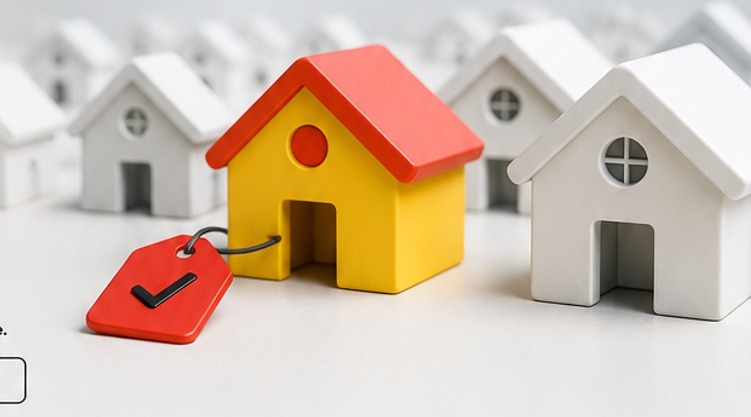
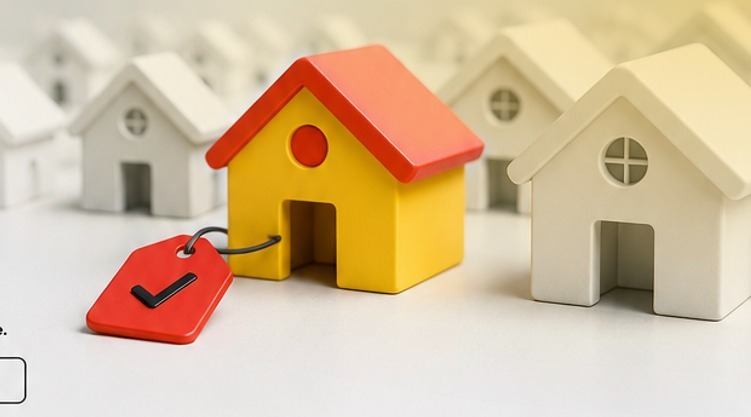
Sfuma il giallo solo negli spazi vuoti della foto, non sulle case
Sostituisce l'overlay CSS uniforme (che tingeva anche i tetti) con una
sfumatura gialla applicata direttamente all'immagine tramite una
maschera generata dalla sagoma della casetta protagonista: il colore
ora si dirada negli spazi non occupati dalle case, lasciando intatta
la casetta in primo piano.

Claude-Session: https://claude.ai/code/session_01KQV1MvifLZA2wtdLH65SFF

Changed region(s): [[0.1838, 0.0, 1.0, 0.717]]

diff --git a/src/components/sections/intro-banner.tsx b/src/components/sections/intro-banner.tsx
@@ -73,15 +73,6 @@ export function IntroBanner() {
               sizes="(min-width: 1024px) 50vw, 100vw"
               className="object-contain"
             />
-            <div
-              aria-hidden
-              className="pointer-events-none absolute inset-0"
-              style={{
-                background:
-                  "linear-gradient(to bottom, rgba(244,197,66,0.65) 0%, rgba(244,197,66,0.32) 22%, rgba(244,197,66,0) 46%)",
-                mixBlendMode: "multiply",
-              }}
-            />
           </div>
         </motion.div>
       </div>
